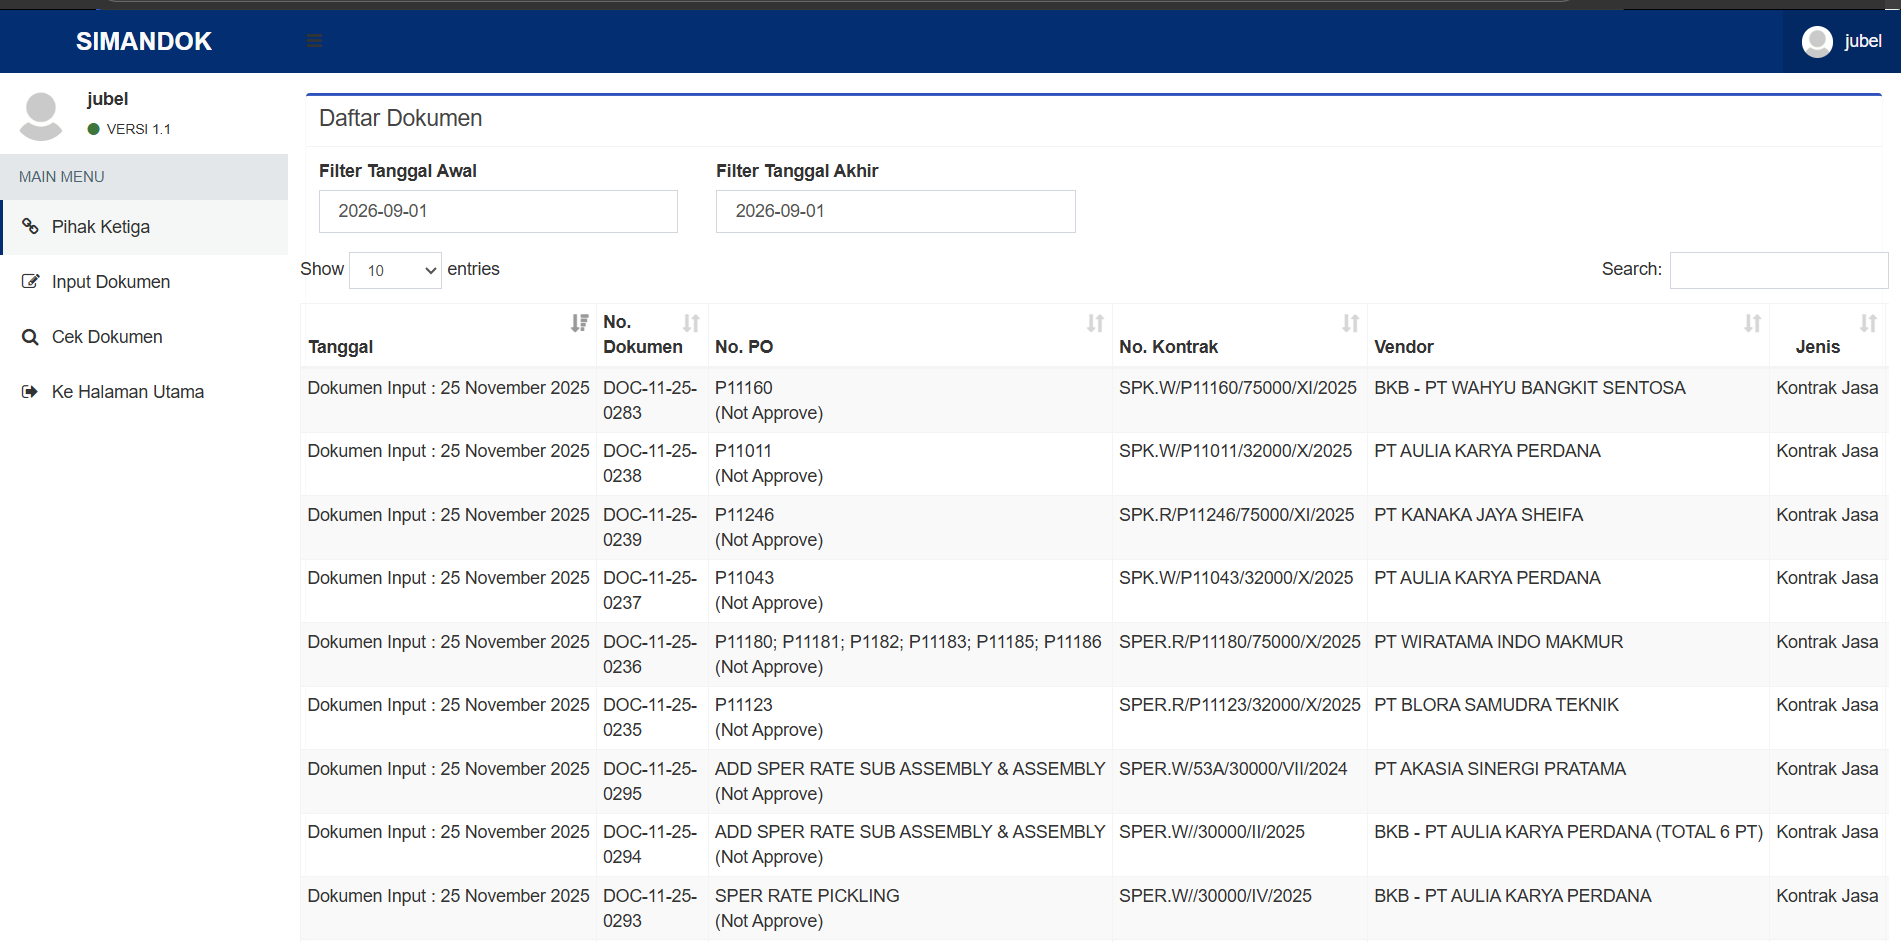
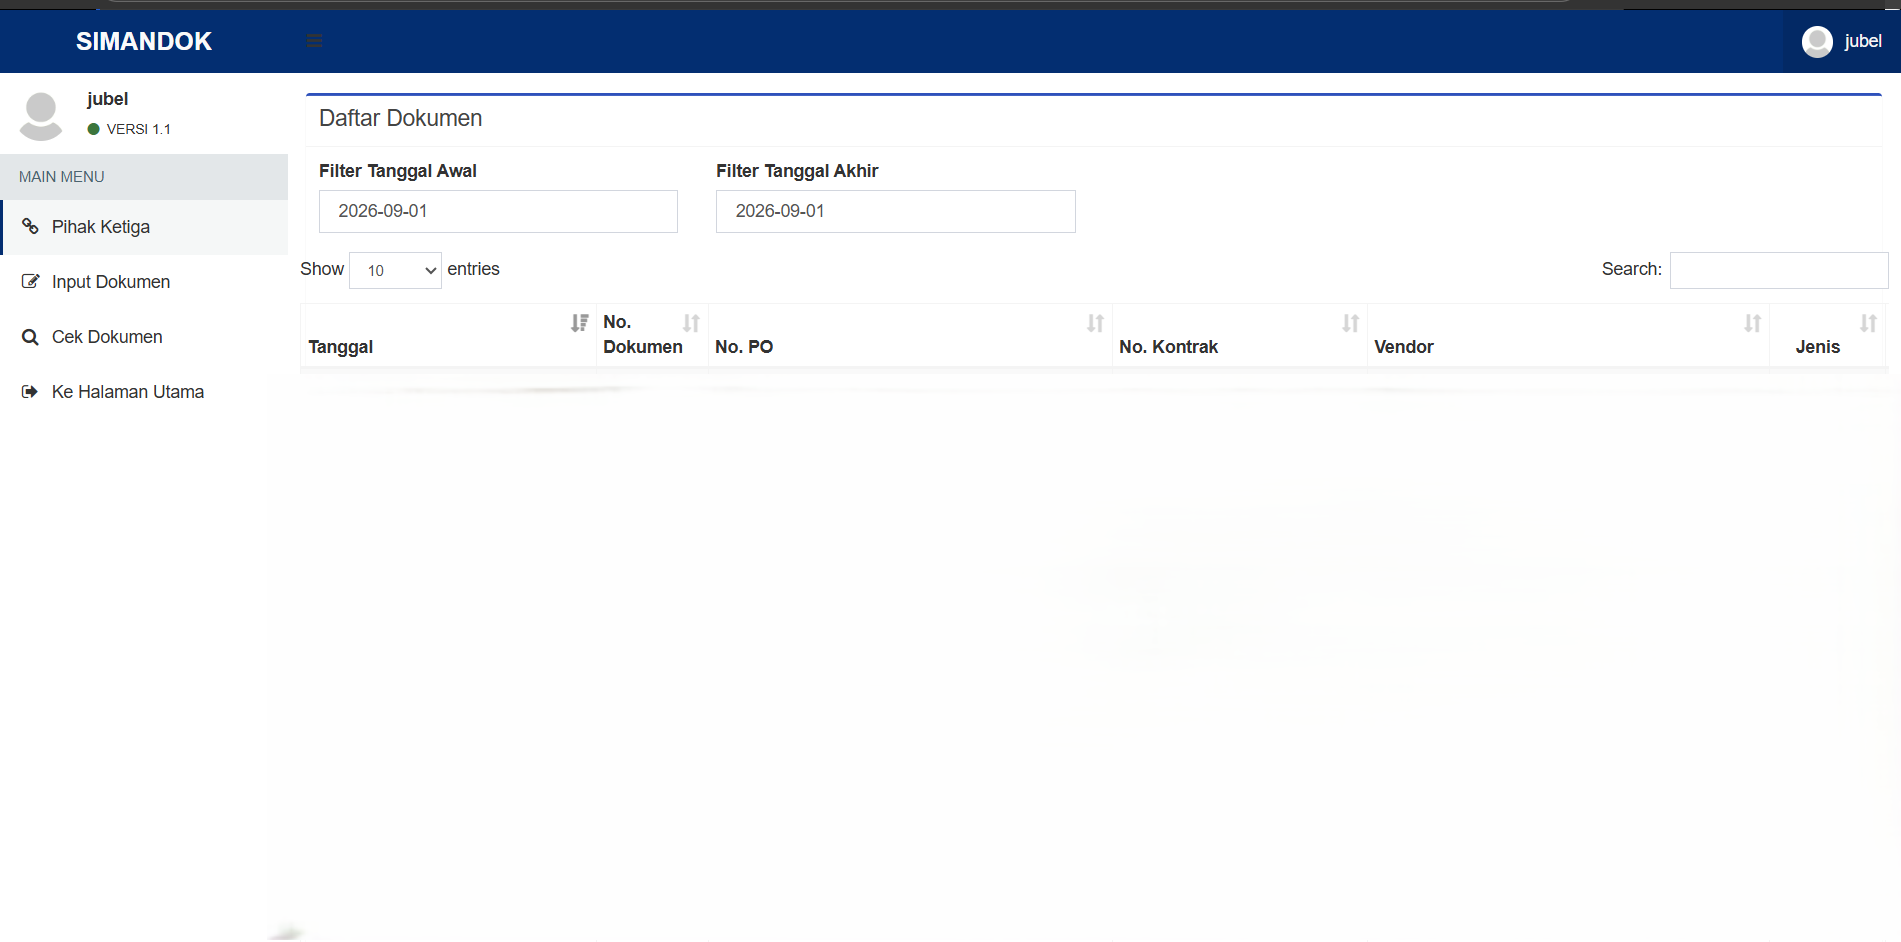
feat: add simandok asset and update typewriter roles with refined formatting

diff --git a/script.js b/script.js
@@ -83,10 +83,7 @@ document.addEventListener("DOMContentLoaded", () => {
     });
 
     if (notify) {
-      showToast(
-        isLight ? "Mode Terang Aktif" : "Mode Gelap Aktif",
-        isLight ? "bi-sun-fill" : "bi-moon-stars-fill"
-      );
+      showToast(isLight ? "Mode Terang Aktif" : "Mode Gelap Aktif", isLight ? "bi-sun-fill" : "bi-moon-stars-fill");
     }
   }
 
@@ -150,7 +147,7 @@ document.addEventListener("DOMContentLoaded", () => {
   // =========================================================================
   const typewriterEl = document.getElementById("heroTypewriter");
   if (typewriterEl) {
-    const roles = ["Software Developer", "Backend & RESTful API Specialist", "Web Developer", "Laravel Specialist"];
+    const roles = ["Software Developer", "Backend & RESTful API Specialist", "Experience 1 year as Web Developer"];
     let roleIdx = 0;
     let charIdx = 0;
     let isDeleting = false;
